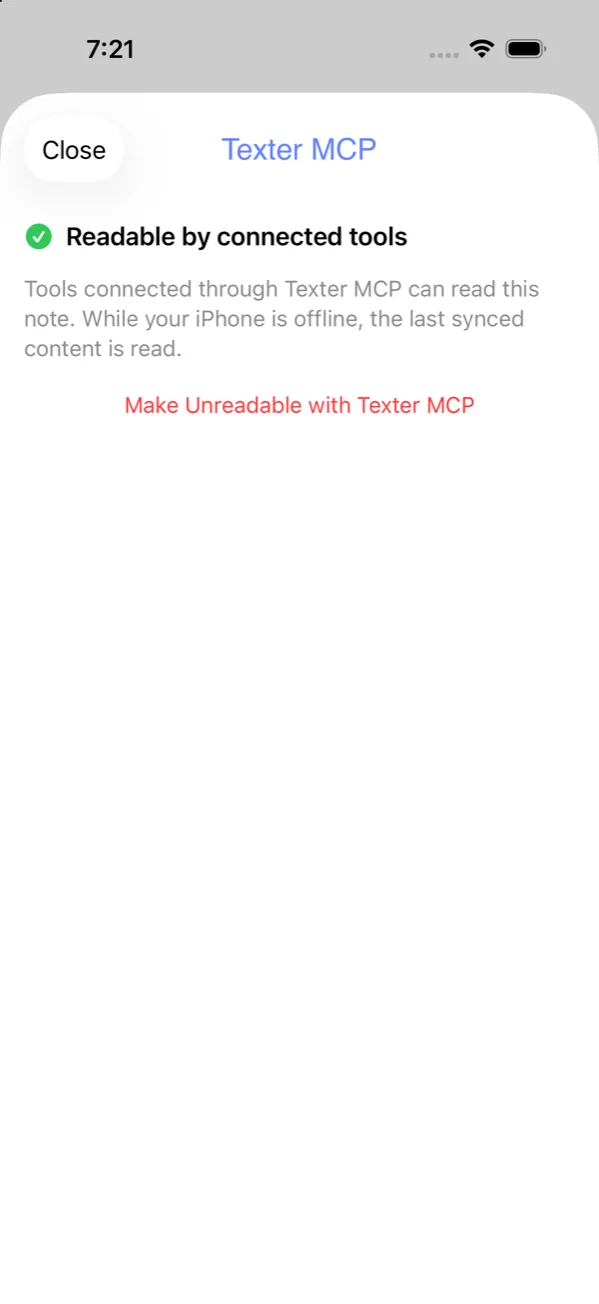
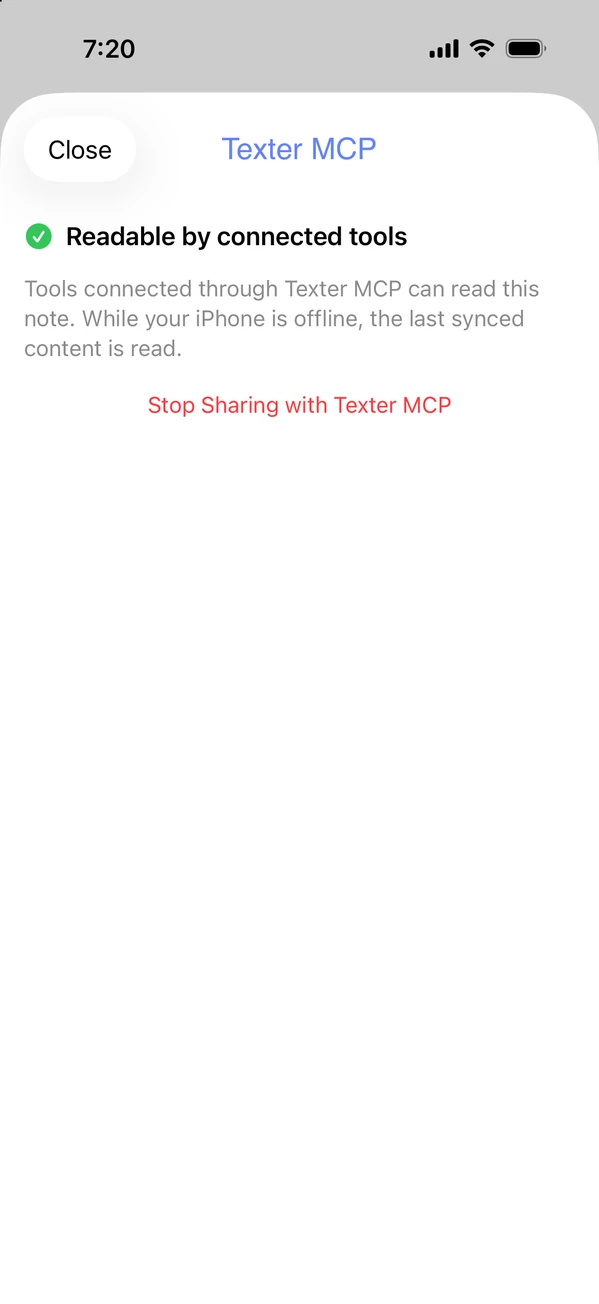
docs(guides): 英語版 09 の画像と説明文をアプリの今の文言に合わせる

diff --git a/dist/en/guides/ai-tools-mcp/index.html b/dist/en/guides/ai-tools-mcp/index.html
@@ -263,7 +263,7 @@ codex mcp login texter</pre>
 <ul><li>The text of this note is sent to the cloud</li><li>Recordings and other original files are not sent</li><li>Content already given to tools can't be taken back</li></ul>
 <p>How to select several notes at once is covered in the next section, "You choose what can be read".</p>
 <p>When the status reads "Readable by connected tools", you're ready. If it says "Preparing", wait a moment.</p>
-<figure class="shot"><a href="/assets/guides/ai-tools-mcp/09_note_keep_en.webp"><img src="/assets/guides/ai-tools-mcp/09_note_keep_en.webp" alt="The Texter MCP screen. It shows &quot;Readable by connected tools&quot; and a button to make the note unreadable" width="599" height="1304" loading="lazy" decoding="async"></a><figcaption>A note that has been made readable</figcaption></figure>
+<figure class="shot"><a href="/assets/guides/ai-tools-mcp/09_note_keep_en.webp"><img src="/assets/guides/ai-tools-mcp/09_note_keep_en.webp" alt="The Texter MCP screen. It shows &quot;Readable by connected tools&quot; and a &quot;Stop Sharing with Texter MCP&quot; button" width="599" height="1304" loading="lazy" decoding="async"></a><figcaption>A note that has been made readable</figcaption></figure>
 </li></ol></section>
 <section class="sec" id="step3" aria-labelledby="step3-h"><h2 id="step3-h">Step 3: Try it in your AI tool</h2>
 <p>Try asking your AI tool something like this.</p>

diff --git a/en/guides/ai-tools-mcp/index.html b/en/guides/ai-tools-mcp/index.html
@@ -263,7 +263,7 @@ codex mcp login texter</pre>
 <ul><li>The text of this note is sent to the cloud</li><li>Recordings and other original files are not sent</li><li>Content already given to tools can't be taken back</li></ul>
 <p>How to select several notes at once is covered in the next section, "You choose what can be read".</p>
 <p>When the status reads "Readable by connected tools", you're ready. If it says "Preparing", wait a moment.</p>
-<figure class="shot"><a href="/assets/guides/ai-tools-mcp/09_note_keep_en.webp"><img src="/assets/guides/ai-tools-mcp/09_note_keep_en.webp" alt="The Texter MCP screen. It shows &quot;Readable by connected tools&quot; and a button to make the note unreadable" width="599" height="1304" loading="lazy" decoding="async"></a><figcaption>A note that has been made readable</figcaption></figure>
+<figure class="shot"><a href="/assets/guides/ai-tools-mcp/09_note_keep_en.webp"><img src="/assets/guides/ai-tools-mcp/09_note_keep_en.webp" alt="The Texter MCP screen. It shows &quot;Readable by connected tools&quot; and a &quot;Stop Sharing with Texter MCP&quot; button" width="599" height="1304" loading="lazy" decoding="async"></a><figcaption>A note that has been made readable</figcaption></figure>
 </li></ol></section>
 <section class="sec" id="step3" aria-labelledby="step3-h"><h2 id="step3-h">Step 3: Try it in your AI tool</h2>
 <p>Try asking your AI tool something like this.</p>

diff --git a/scripts/guides/data.js b/scripts/guides/data.js
@@ -1687,7 +1687,7 @@ codex mcp login texter</pre>
 <ul><li>The text of this note is sent to the cloud</li><li>Recordings and other original files are not sent</li><li>Content already given to tools can't be taken back</li></ul>
 <p>How to select several notes at once is covered in the next section, "You choose what can be read".</p>
 <p>When the status reads "Readable by connected tools", you're ready. If it says "Preparing", wait a moment.</p>
-<figure class="shot"><a href="/assets/guides/ai-tools-mcp/09_note_keep_en.webp"><img src="/assets/guides/ai-tools-mcp/09_note_keep_en.webp" alt="The Texter MCP screen. It shows &quot;Readable by connected tools&quot; and a button to make the note unreadable" width="599" height="1304" loading="lazy" decoding="async"></a><figcaption>A note that has been made readable</figcaption></figure>
+<figure class="shot"><a href="/assets/guides/ai-tools-mcp/09_note_keep_en.webp"><img src="/assets/guides/ai-tools-mcp/09_note_keep_en.webp" alt="The Texter MCP screen. It shows &quot;Readable by connected tools&quot; and a &quot;Stop Sharing with Texter MCP&quot; button" width="599" height="1304" loading="lazy" decoding="async"></a><figcaption>A note that has been made readable</figcaption></figure>
 </li></ol>` },
     { id: 'step3', title: 'Step 3: Try it in your AI tool', html: `
 <p>Try asking your AI tool something like this.</p>
